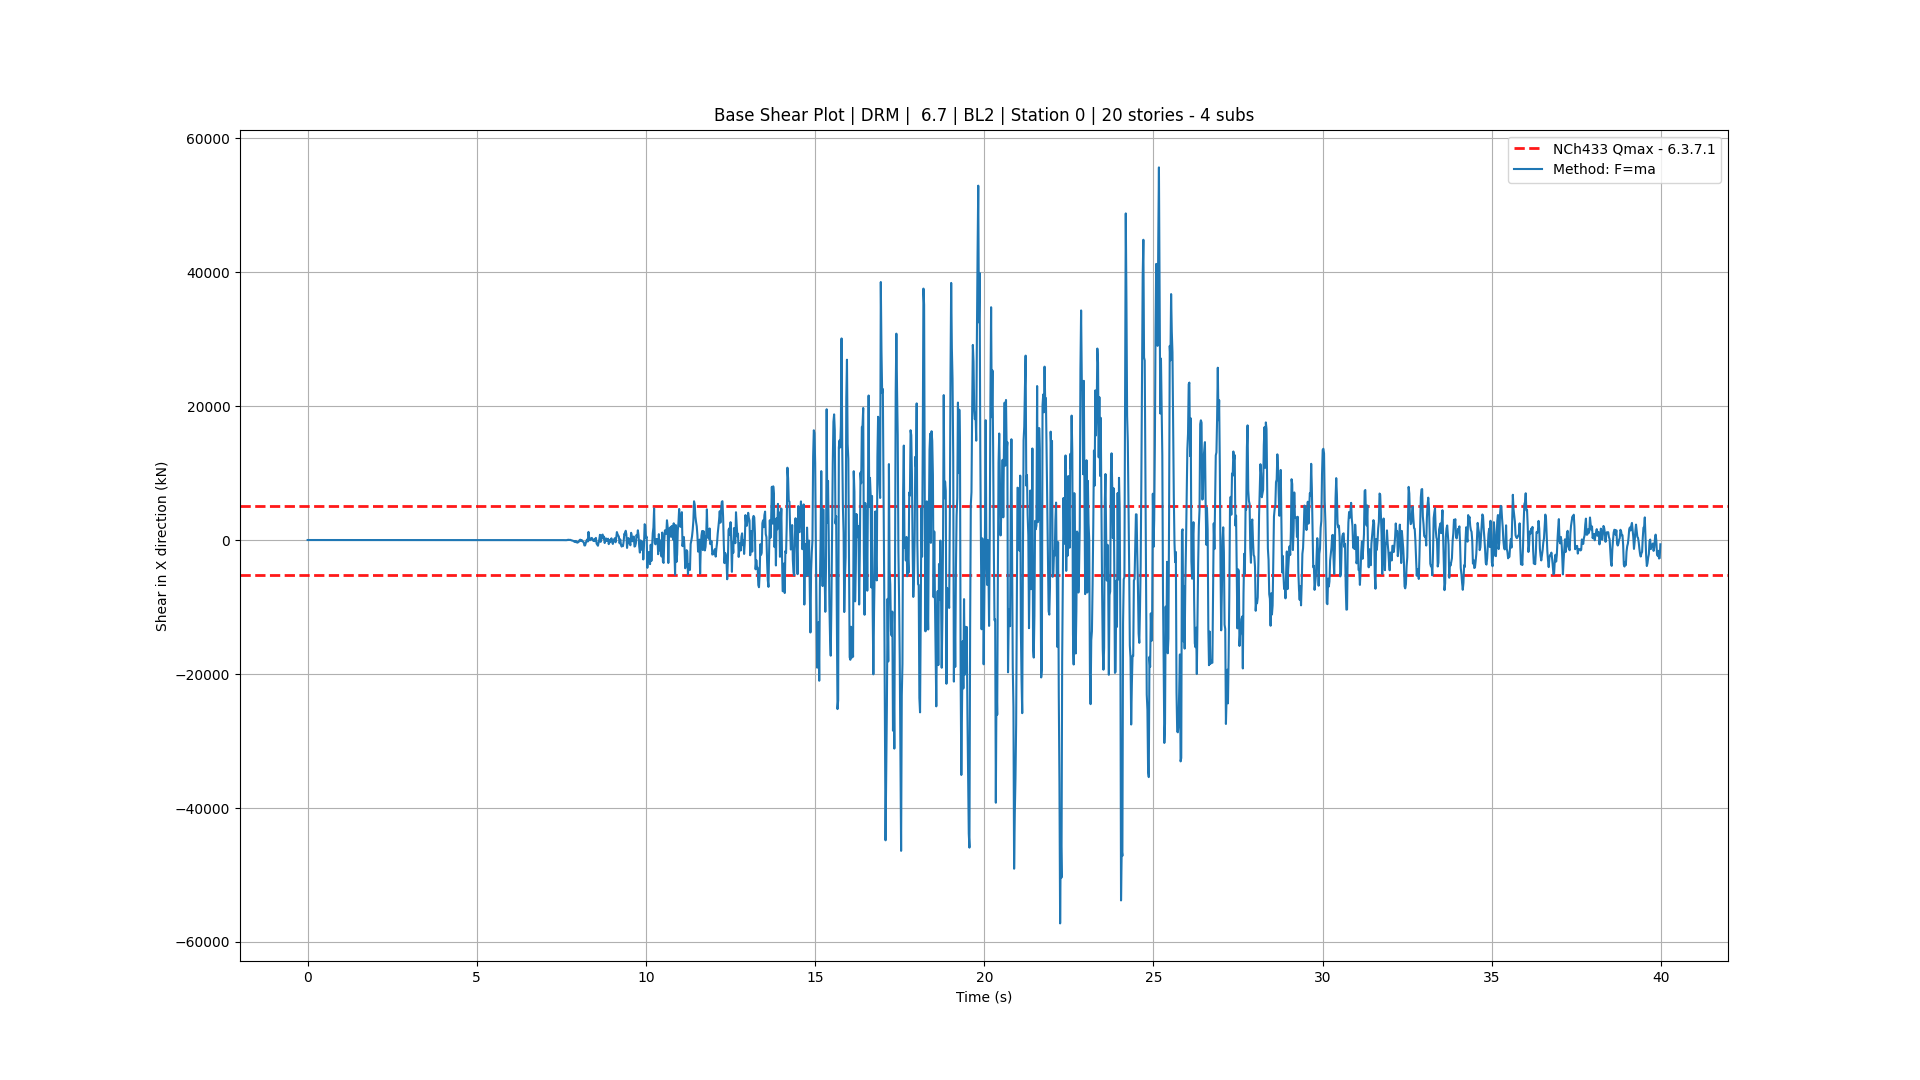
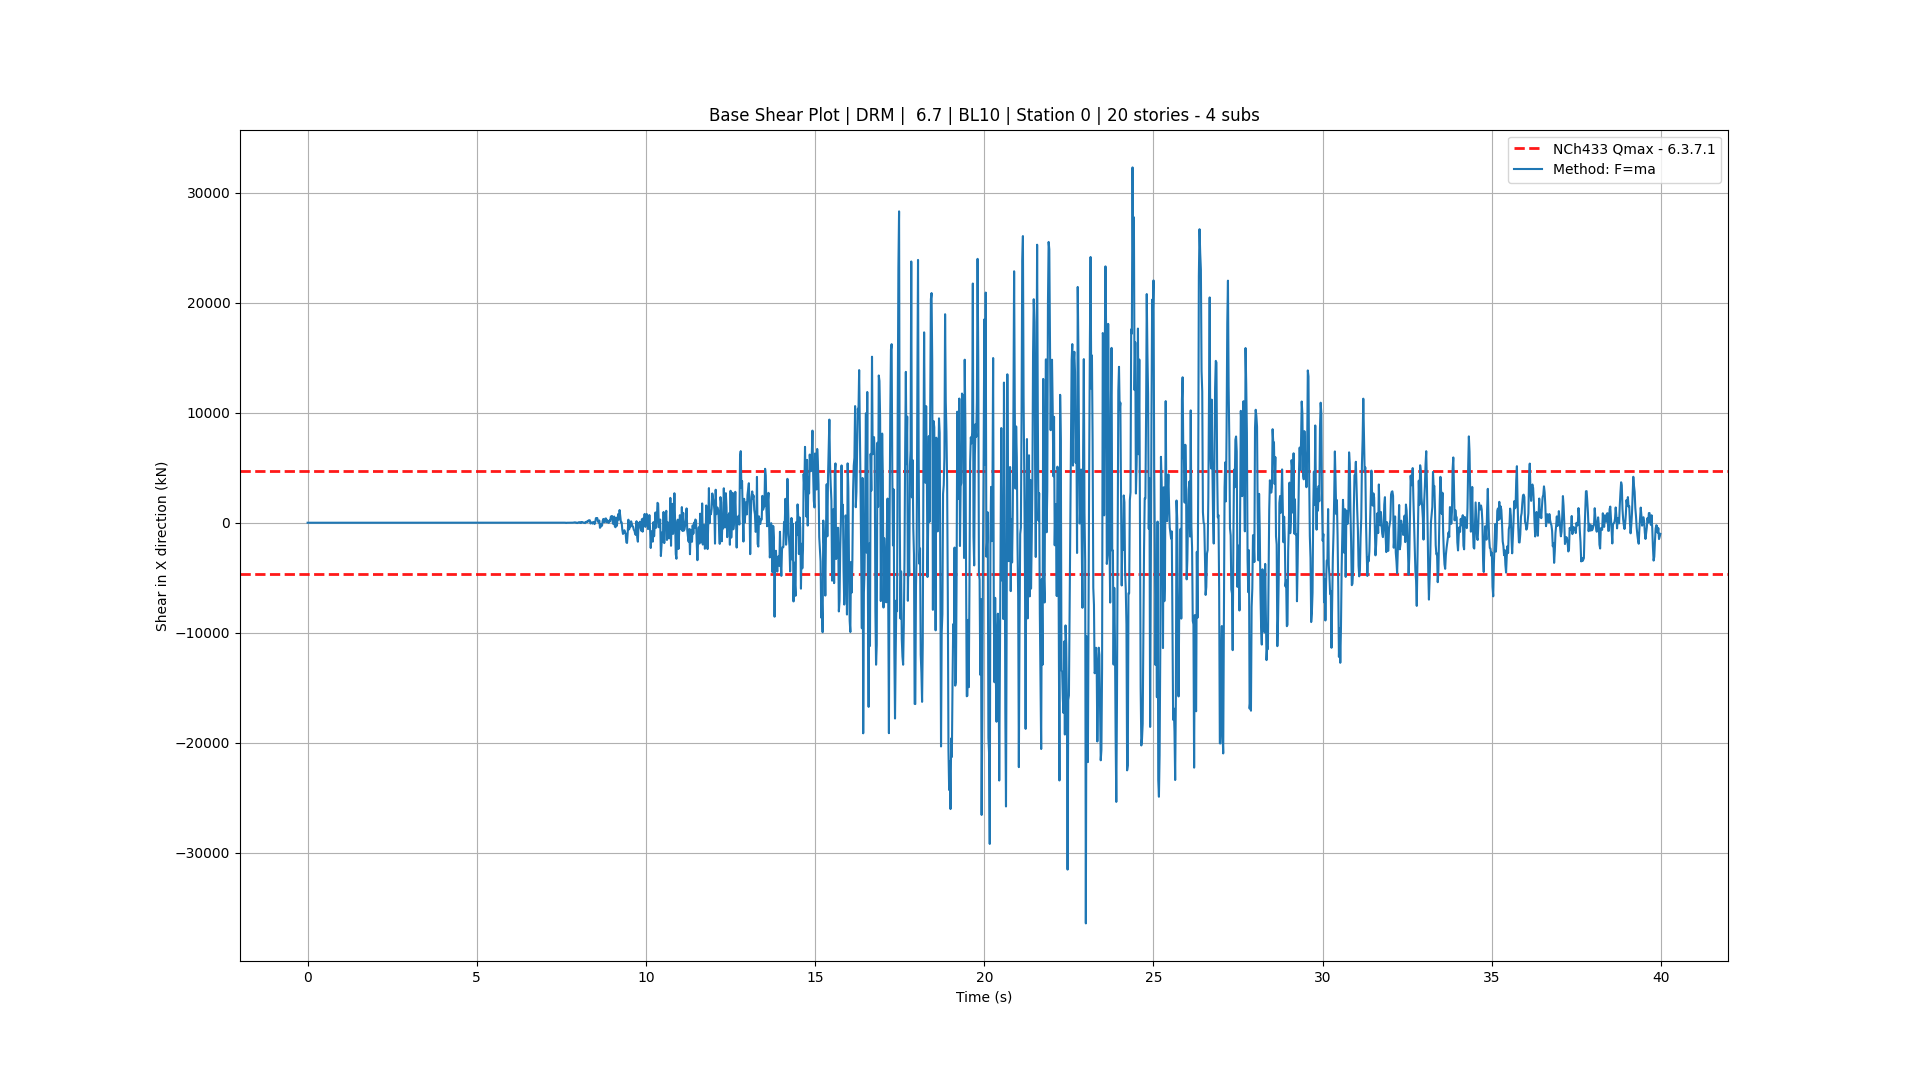
minor fixes5

diff --git a/Python Scripts/PySeesTKO/pyseestko/db_functions.py b/Python Scripts/PySeesTKO/pyseestko/db_functions.py
@@ -891,27 +891,25 @@ class ModelSimulation:
                     + model_dic[20]['areas']["internal_core_x"] *  model_dic[20]['thickness']["internal_core_x"][k+1] * density/2
                     + model_dic[20]['areas']["internal_core_y"] *  model_dic[20]['thickness']["internal_core_y"][k+1] * density/2
                     + model_dic[20]['areas']['columns_sup']     *  model_dic[20]['thickness']['columns_sup']    [k+1] * density/2)
-                    for k in range(self.stories)},
-                    50:{}}
+                    for k in range(self.stories)}}
         mass_base = {20:{
                         0:
-                        model_dic[20]['areas']["sub_slabs_area"]  *  model_dic[20]['thickness']["slabs_sub"][1]         * density1   +
+                        model_dic[20]['areas']["sub_slabs_area"]  *  model_dic[20]['thickness']["slabs_sub"][1]       * density1   +
                         # Add bottom mass
-                        model_dic[20]['areas']["perimetral_wall"] *  model_dic[20]['thickness']["perimetral_wall"][1]   * density/2 +
-                        model_dic[20]['areas']['columns_sub']     *  model_dic[20]['thickness']['columns_sub'][1]       * density/2 +
+                        model_dic[20]['areas']["perimetral_wall"] *  model_dic[20]['thickness']["perimetral_wall"][1] * density/2 +
+                        model_dic[20]['areas']['columns_sub']     *  model_dic[20]['thickness']['columns_sub'][1]     * density/2 +
                         # Add top mass
                         model_dic[20]['areas']["external_core"]   *  model_dic[20]['thickness']["external_core"][2]   * density/2 +
                         model_dic[20]['areas']["internal_core_x"] *  model_dic[20]['thickness']["internal_core_x"][2] * density/2 +
                         model_dic[20]['areas']["internal_core_y"] *  model_dic[20]['thickness']["internal_core_y"][2] * density/2 +
-                        model_dic[20]['areas']['columns_sup']     *  model_dic[20]['thickness']['columns_sup'][2]     * density/2},
-                     50:{}}
+                        model_dic[20]['areas']['columns_sup']     *  model_dic[20]['thickness']['columns_sup'][2]     * density/2}}
         mass_sub = {20: {k-1:
                         model_dic[20]['areas']["sub_slabs_area"]  *  model_dic[20]['thickness']["slabs_sub"][k]       * density1 +
                         model_dic[20]['areas']["perimetral_wall"] *  model_dic[20]['thickness']["perimetral_wall"][k] * density1 +
                         model_dic[20]['areas']['columns_sub']     *  model_dic[20]['thickness']['columns_sub'][k]     * density1
                     for k in range(0, -(self.subs-1), -1)},
                     }
-        factor = {20:{2:1.025, 4:1.025}} # Factor of 4 subs may change cause it's not studied yet
+        factor = {20:{2:0.93, 4:0.97}} # Factor of 4 subs may change cause it's not studied yet
         self.masses_series = pd.Series({**mass_sub[self.stories], **mass_base[self.stories], **mass_sup[self.stories]}).sort_index()*factor[self.stories][self.subs]
 
         # For each story, compute the mean acceleration in the 4 nodes of the story

diff --git a/Python Scripts/PySeesTKO/pyseestko/queries.py b/Python Scripts/PySeesTKO/pyseestko/queries.py
@@ -6,8 +6,9 @@ from pyseestko.plotting   import Plotting               #type: ignore
 from pyseestko.utilities  import NCh433_2012            #type: ignore
 from pyseestko.utilities  import initialize_ssh_tunnel  #type: ignore
 from pathlib              import Path
-import time
+import pandas as pd
 import pickle
+import time
 
 class ProjectQueries:
     def __init__(
@@ -130,19 +131,22 @@ class ProjectQueries:
         soil_category    :str,
         importance       :int
                       ):
+        # Init params
+        start_time = time.time()
+        drift_results_df   = pd.DataFrame(columns=['CM x', 'CM y', 'Max x', 'Max y']).rename_axis('Time Step')
+        spectra_results_df = None
+        
         # ===================================================================================================
         # ==================================== QUERY THE DRIFT PER FLOOR ====================================
         # ===================================================================================================
         if save_drift is not None:
             # Init the query
-            start_time = time.time()
-            max_corner_x, max_corner_y,\
-            max_center_x, max_center_y = self.story_drift()
+            max_corner_x, max_corner_y, max_center_x, max_center_y = self.story_drift()
 
             # Plot the data
             self.plotter.save_path = Path(save_drift)
             ax                = self.plotter.plotModelDrift(max_corner_x, max_center_x, max_corner_y, max_center_y)
-
+            drift_results_df  = pd.DataFrame({'CM x': max_center_x, 'CM y': max_center_y, 'Max x': max_corner_x, 'Max y': max_corner_y}, index=range(1, len(max_corner_x)+1)).rename_axis('Time Step')
 
         # ===================================================================================================
         # ===================================== QUERY THE STORY SPECTRUM ====================================
@@ -154,8 +158,9 @@ class ProjectQueries:
             # Plot the data
             self.plotter.save_path = Path(save_spectra)
             stories_lst = [1,5,10,15,20]
-            ax = self.plotter.plotLocalStoriesSpectrums(accel_df, story_nodes_df, 'x', stories_lst, soften=True)
-            ax = self.plotter.plotLocalStoriesSpectrums(accel_df, story_nodes_df, 'y', stories_lst, soften=True)
+            ax, T, Spx = self.plotter.plotLocalStoriesSpectrums(accel_df, story_nodes_df, 'x', stories_lst, soften=True)
+            ax, _, Spy = self.plotter.plotLocalStoriesSpectrums(accel_df, story_nodes_df, 'y', stories_lst, soften=True)
+            spectra_results_df = pd.DataFrame({'Spectrum X': Spx, 'Spectrum Y': Spy}, index=T).rename_axis('Period [T]')
 
 
         # ===================================================================================================
@@ -181,4 +186,6 @@ class ProjectQueries:
         end_time = time.time()
         self.close_connection()
         print(f'Elapsed time: {end_time - start_time} seconds.')
+        
+
 

diff --git a/Python Scripts/query_data.py b/Python Scripts/query_data.py
@@ -22,25 +22,25 @@ stations: Can be any number from 0 to 9, -1 for not defined
 stories: For the moment, it can be 20 or 55
 nsubs_lst: For the moment, it can be 2 or 4
 """
-sim_types    = [1]
-linearity    = 1
-magnitude    = 6.7
-rupture_type = 1
-iterations   = [1,2,3]
-stations     = [0,1,2]#,3,4,5,6,7,8,9]
-stories      = 20
-nsubs_lst    = [2,4]
+magnitude    = 6.7      # Constant
+rupture_type = 1        # Constant       
+linearity    = 1        # Constant
+stories      = 20       # Constant      
+nsubs_lst    = [4]      # 2,4
+sim_types    = [3]      # 1 = FB, 2 = AB, 3 = DRM
+iterations   = [1,2]#,4,5,6,7,8,9,10]      # 1,2,3,4,5,6,7,8,9,10
+stations     = [0,1,2,3,4,5,6,7,8,9]
 mag_map, loc_map, rup_map = get_mappings()
 
 # Define paths to save the plots
 save_drift       = 'C:/Users/oioya/OneDrive - miuandes.cl/Escritorio/Git-Updated/Thesis-Project-Simulation-Data-Analysis/DataBase-Outputs/Drift Outputs'
-save_spectra     = None #'C:/Users/oioya/OneDrive - miuandes.cl/Escritorio/Git-Updated/Thesis-Project-Simulation-Data-Analysis/DataBase-Outputs/Story Spectra Output'
-save_b_shear     = None #'C:/Users/oioya/OneDrive - miuandes.cl/Escritorio/Git-Updated/Thesis-Project-Simulation-Data-Analysis/DataBase-Outputs/Base Shear Output'
-structure_weight = 37134.5 # kN
+save_spectra     = None#'C:/Users/oioya/OneDrive - miuandes.cl/Escritorio/Git-Updated/Thesis-Project-Simulation-Data-Analysis/DataBase-Outputs/Story Spectra Output'
+save_b_shear     = None#'C:/Users/oioya/OneDrive - miuandes.cl/Escritorio/Git-Updated/Thesis-Project-Simulation-Data-Analysis/DataBase-Outputs/Base Shear Output'
+structure_weight = 24531.7 # kN
 zone             = 'Las Condes'
 soil_category    = 'B'
 importance       = 2
-
+windows          = True # True if the OS is Windows, False if Linux
 # Iterate over the subs, then over the sim_type and then over the stations so we can get all the results
 for sim_type in sim_types:
     for station in stations:
@@ -56,6 +56,9 @@ for sim_type in sim_types:
                                         mag_map.get(magnitude,    'None'),
                                         rup_map.get(rupture_type, 'None'), iteration,
                                         loc_map.get(station,      'None'),
-                                        stories, nsubs, plotter, windows=False)
+                                        stories, nsubs, plotter, windows=windows)
                 query.getAllResults(save_drift, save_spectra, save_b_shear, structure_weight, zone, soil_category, importance)
+
+
+
 

diff --git a/Python Scripts/update_and_run_mains.py b/Python Scripts/update_and_run_mains.py
@@ -10,11 +10,11 @@ from pyseestko import utilities as pyutl # type: ignore
 # Define new_main_sql_path
 
 # Define the simulation types, structure types, rupture iterations and stations
-sim_types        = ['DRM']         # Options are 'FixBase', 'AbsBound', 'DRM' and 'Validations 
-structure_types  = ['20f4s']                     # Options are '20f2s', '20f4s' 
-rupture_iters    = [i for i in range(10, 11) ]              # Options are 'bl', 'ns', 'sn' and iter in range(11)
-stations         = [f'station_s{i}' for i in range(0,9)]  # Generate a list of stations from 'station_s0' to 'station_s8'
-Validate         = True
+sim_types        = ['FixBase', 'DRM']         # Options are 'FixBase', 'AbsBound', 'DRM' and 'Validations 
+structure_types  = ['20f2s', '20f4s']                     # Options are '20f2s', '20f4s' 
+rupture_iters    = [i for i in range(1, 3) ]              # Options are 'bl', 'ns', 'sn' and iter in range(11)
+stations         = [f'station_s{i}' for i in range(9,10)]  # Generate a list of stations from 'station_s0' to 'station_s8'
+Validate         = False
 
 # Define the root path and the files to delete
 if Validate:

diff --git a/Python Scripts/PySeesTKO/pyseestko/plotting.py b/Python Scripts/PySeesTKO/pyseestko/plotting.py
@@ -146,7 +146,8 @@ class Plotting:
         nu = 0.05
         T = np.linspace(0.003, 2, 1000)
         w  = 2 * np.pi / np.array(T)
-
+        
+        
         # Make plot spectrum
         for i, story in enumerate(stories_lst):
             # Setup color and linestyle
@@ -175,7 +176,7 @@ class Plotting:
         ax.legend()
         if plot:
             self.plotSave(fig)
-        return ax
+        return ax, T, Spe
 
     def plotShearBaseOverTime(self, time:np.ndarray, time_shear_fma:list[float], Qmin:float, Qmax:float, dir_:str):
         # Input params
